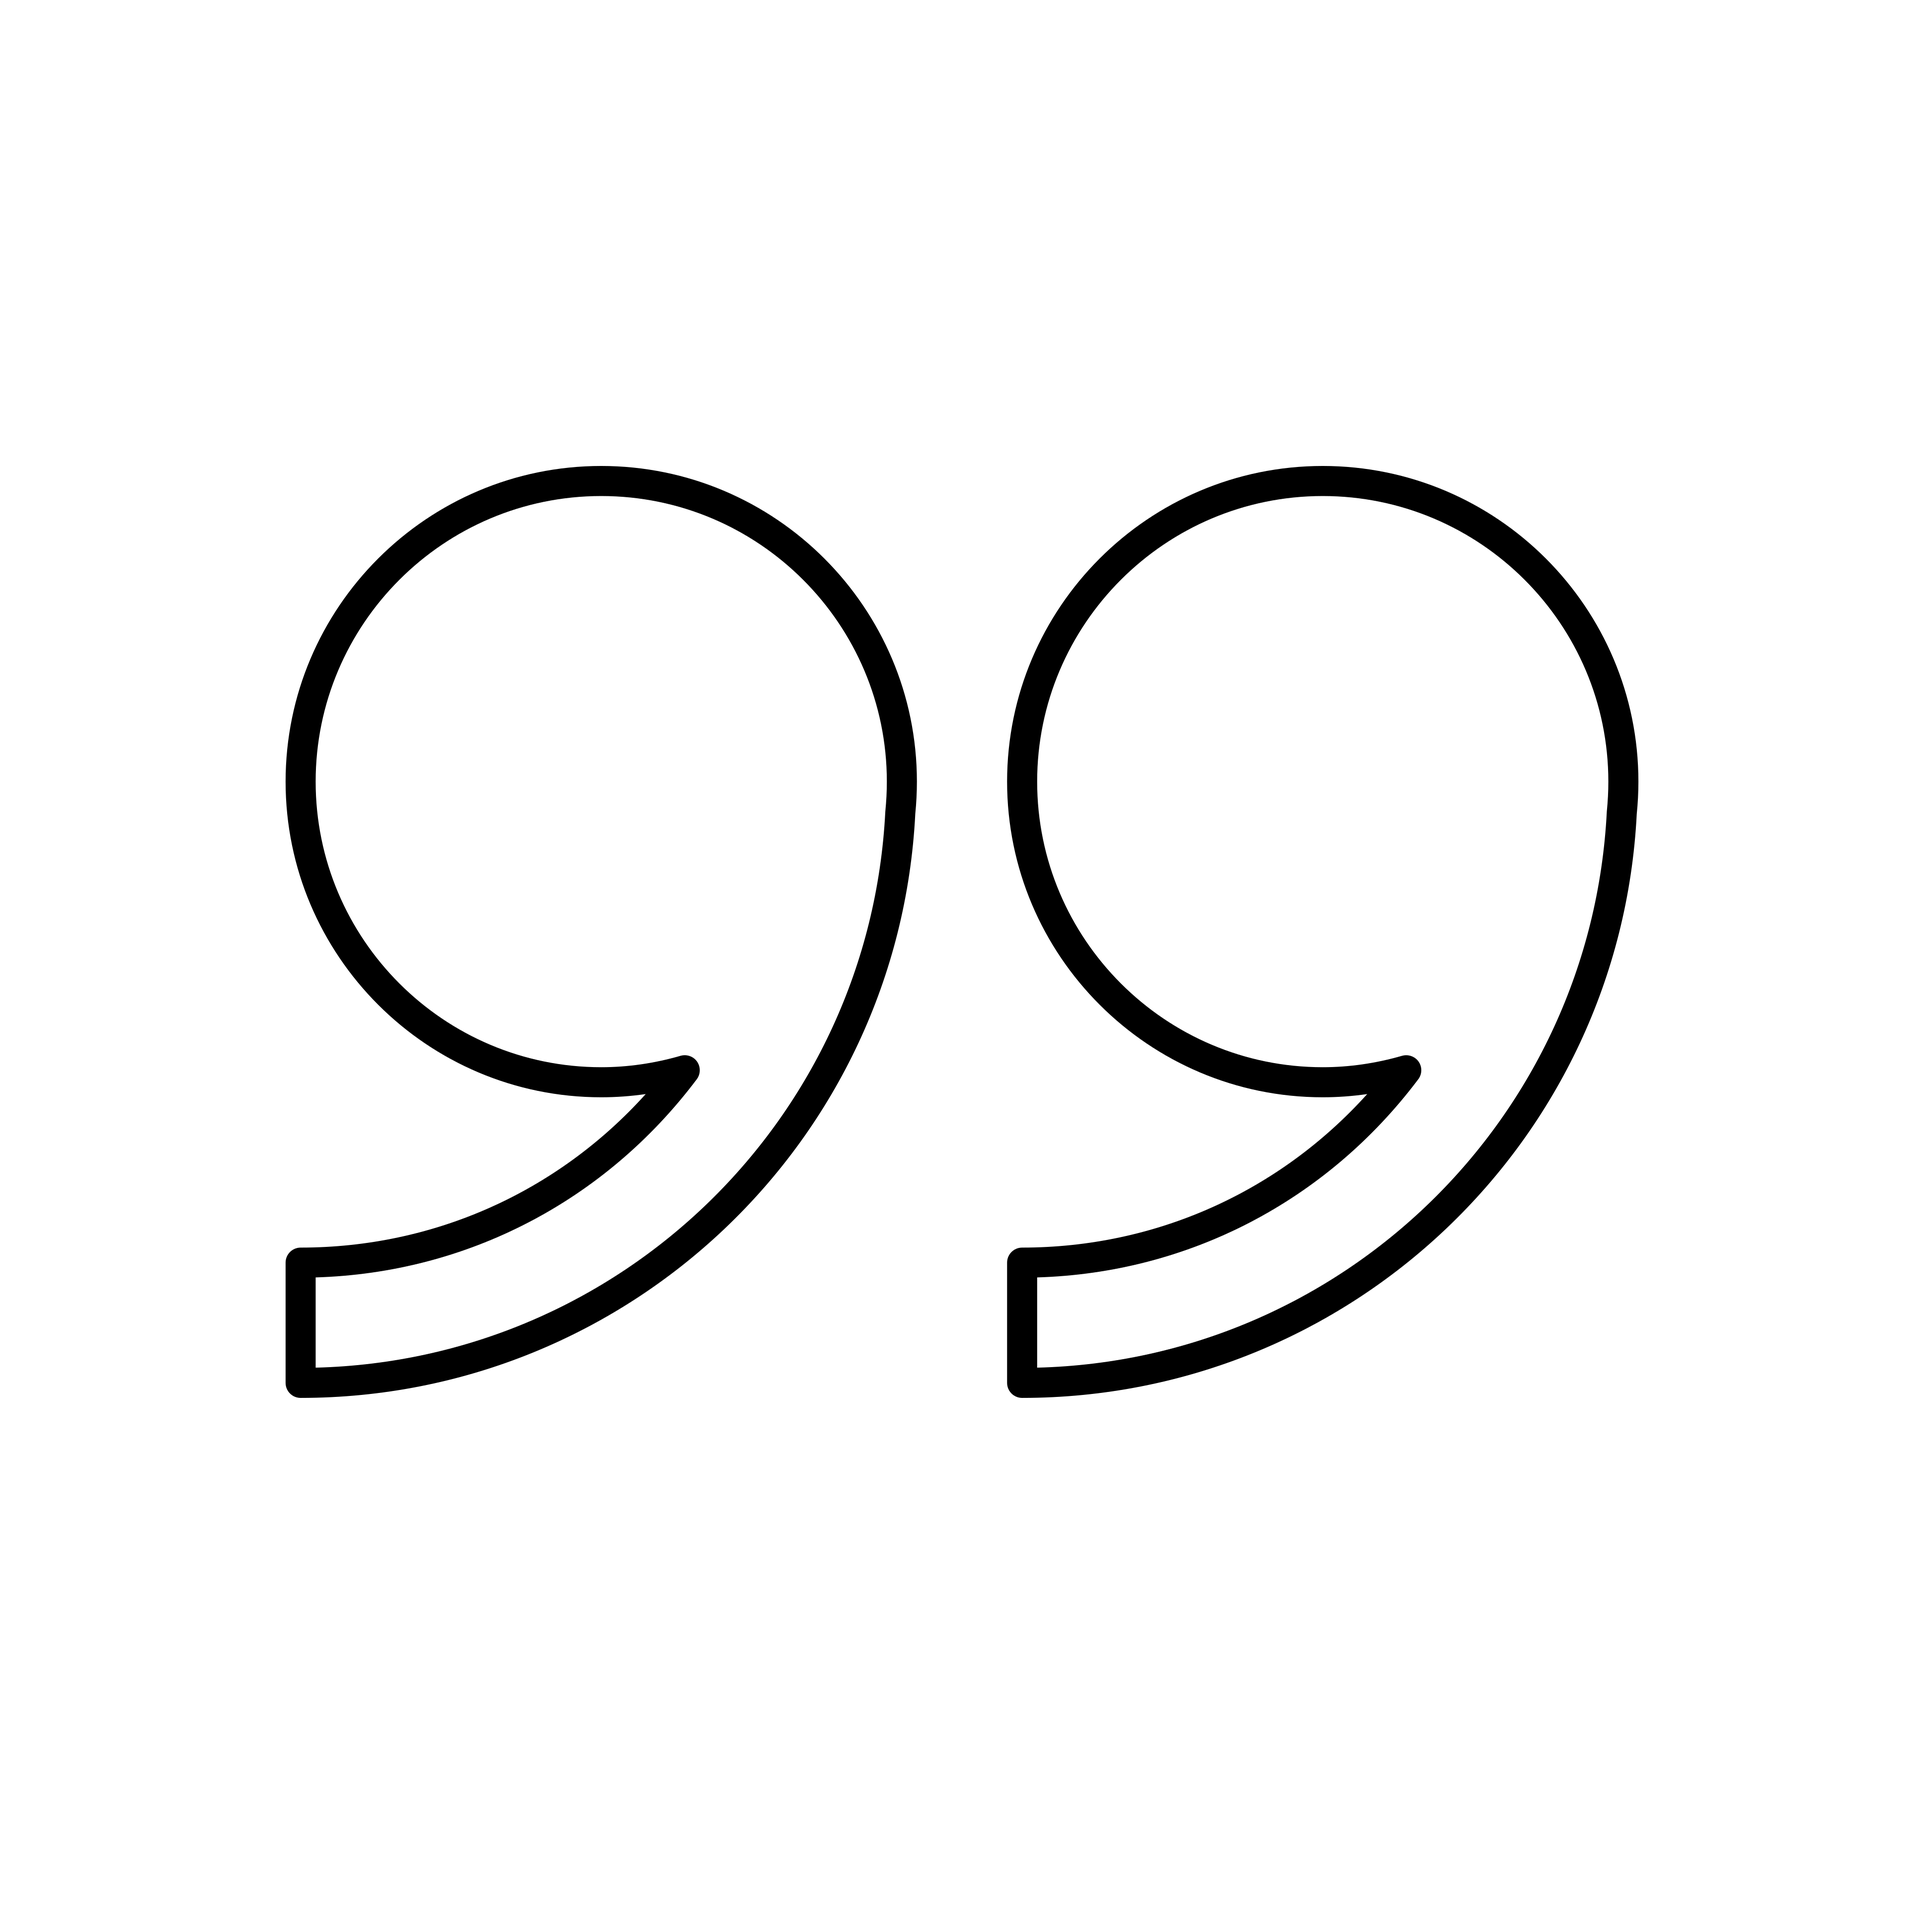
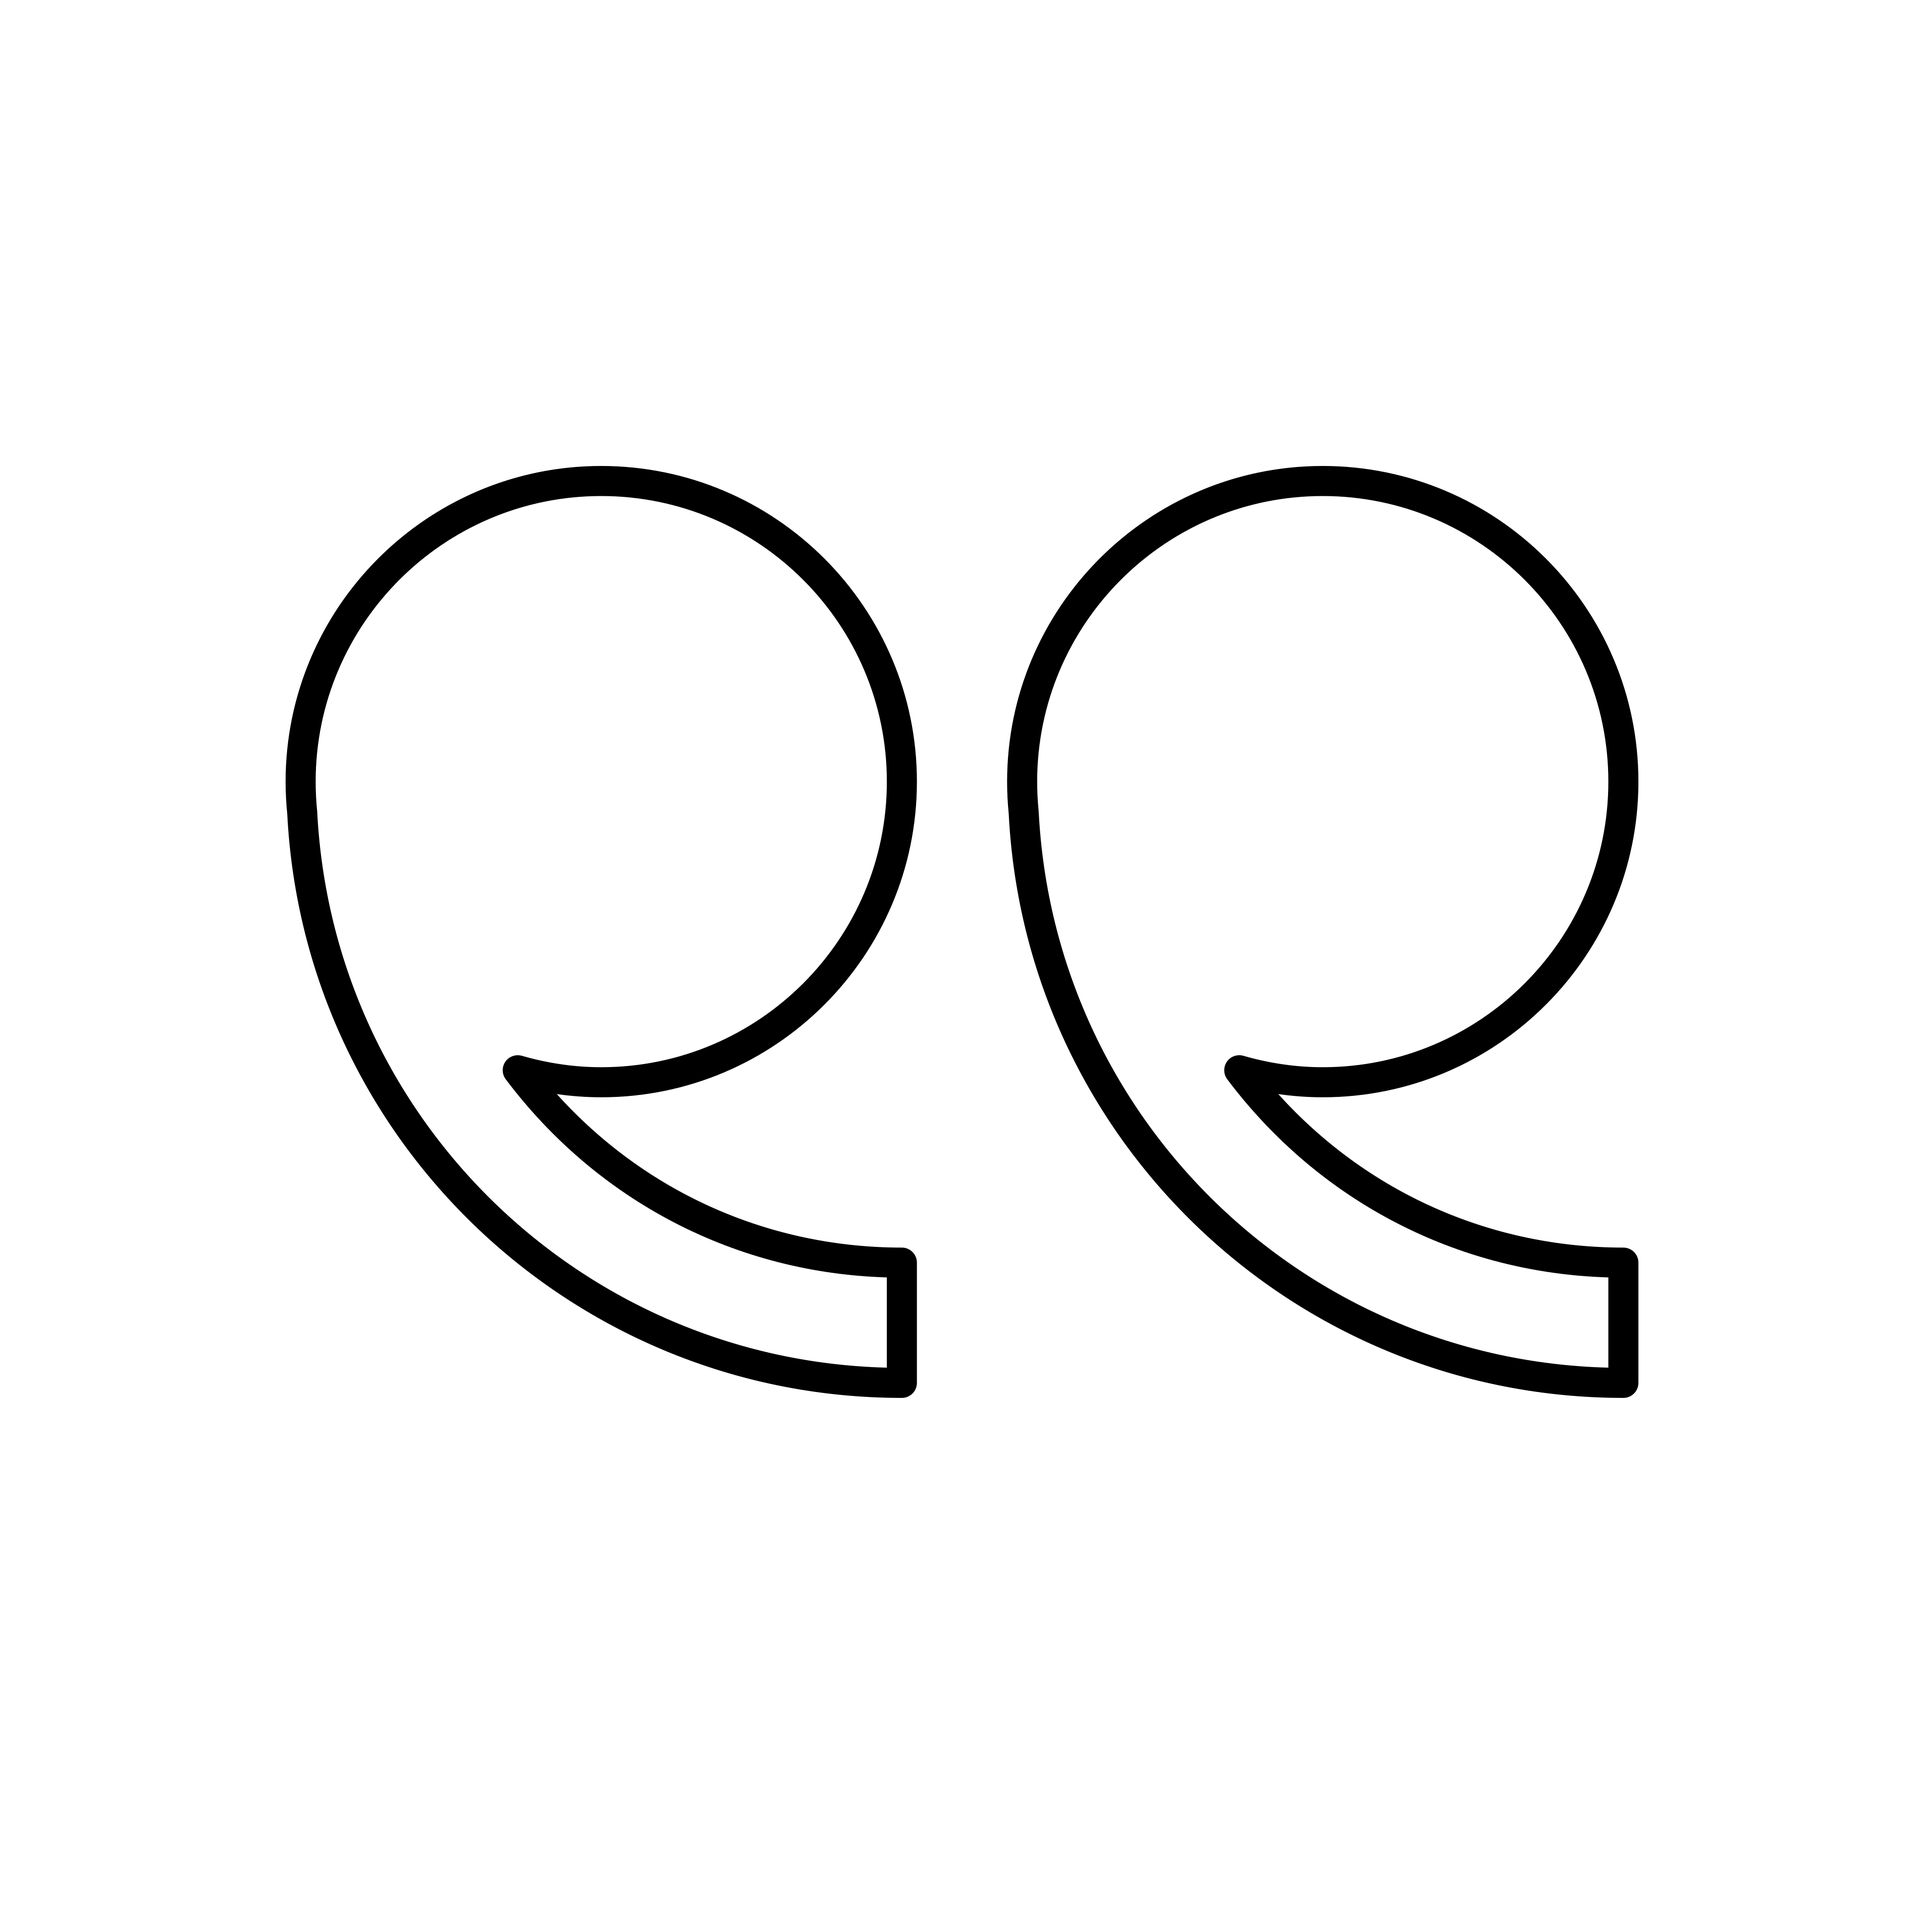
Criando e estilizando depoimentos

Changed region(s): [[0.125, 0.4374, 0.8748, 0.7498]]

diff --git a/index.html b/index.html
@@ -68,7 +68,21 @@
                 
             </div>
         </section>
-        <section class="depoimentos"></section>
+        <section class="depoimentos">
+            
+            <p class="depoimentos-texto">
+                <img src="/assets/quote.png" class="depoimentos-img">
+                Sou prova disso! Depois do Detox, eliminei até as fezes velhas. Obrigada, Giuli, por não desistir de mim.<br>
+            - Cliente via Instagram
+            </p>
+            
+            <p class="depoimentos-texto">
+                <img src="/assets/quote.png" class="depoimentos-img">
+                Oie!!! Menina, amandoooooo. Nada de dor e o intestino tá uma beleza. Ir no banheiro todo dia para mim é luxo kkkkk<br>
+            - Cliente via Whatsapp
+            </p>
+        </section>
+        <section class="frase-dois"></section>
     </main>
     <footer></footer>
     <script src="/js/index.js"></script>

diff --git a/style/depoimentos.css b/style/depoimentos.css
@@ -1,0 +1,33 @@
+.depoimentos{
+    display: flex;
+    justify-content: center;
+    gap: 44px;
+    margin: 70px;
+}
+
+.depoimentos-texto{
+    z-index: 1;
+
+    width: 465px;
+    height: 208px;
+    padding: 55px;
+
+    display: flex;
+    flex-direction: column;
+    justify-content: center;
+
+    border-radius: 33px;
+    background-color: var(--verde-envelhecido);
+
+    color: var(--preto-texto);
+    font-size: 18px;
+    line-height: 123%;
+    font-family: var(--fonte-texto);
+    font-weight: 600;
+}
+
+.depoimentos-img{
+    max-width: 56px;
+    padding-top: 10px;
+    margin: -40px 0 10px -30px;
+}

diff --git a/style/style.css b/style/style.css
@@ -2,6 +2,7 @@
 @import url(./inicio.css);
 @import url(./frase.css);
 @import url(./esculpe.css);
+@import url(./depoimentos.css);
 /*Fontes Google*/
 @import url('https://fonts.googleapis.com/css2?family=Abhaya+Libre:wght@400;500;600;700;800&family=Lato:ital,wght@0,100;0,300;0,400;0,700;0,900;1,100;1,300;1,400;1,700;1,900&display=swap');
 
